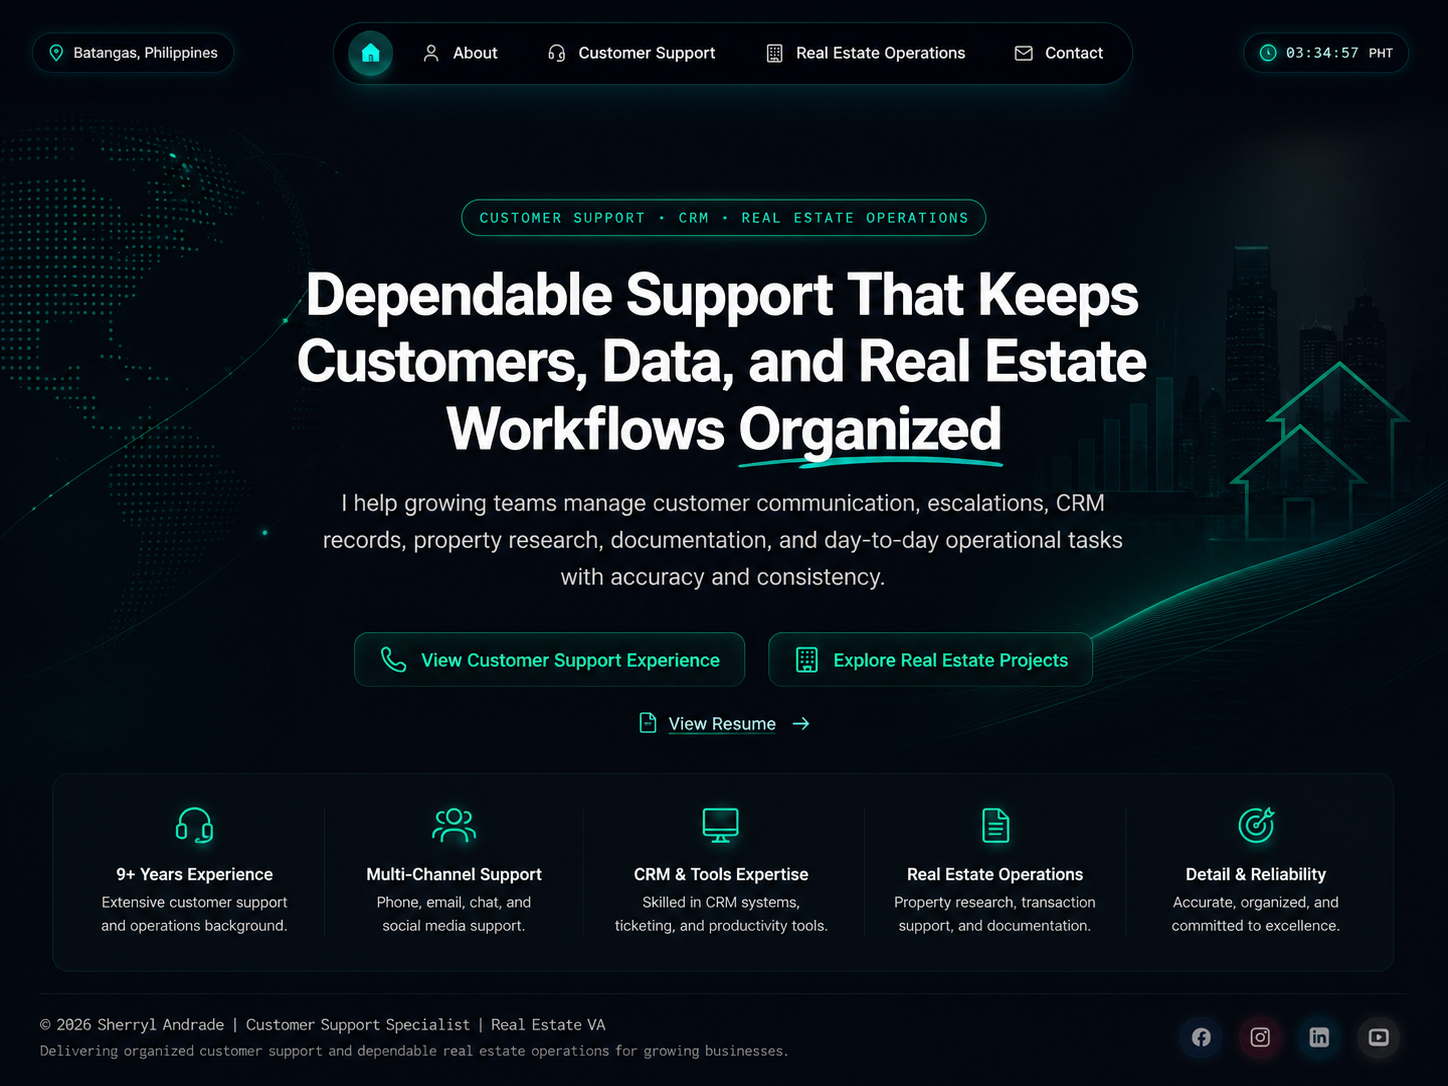
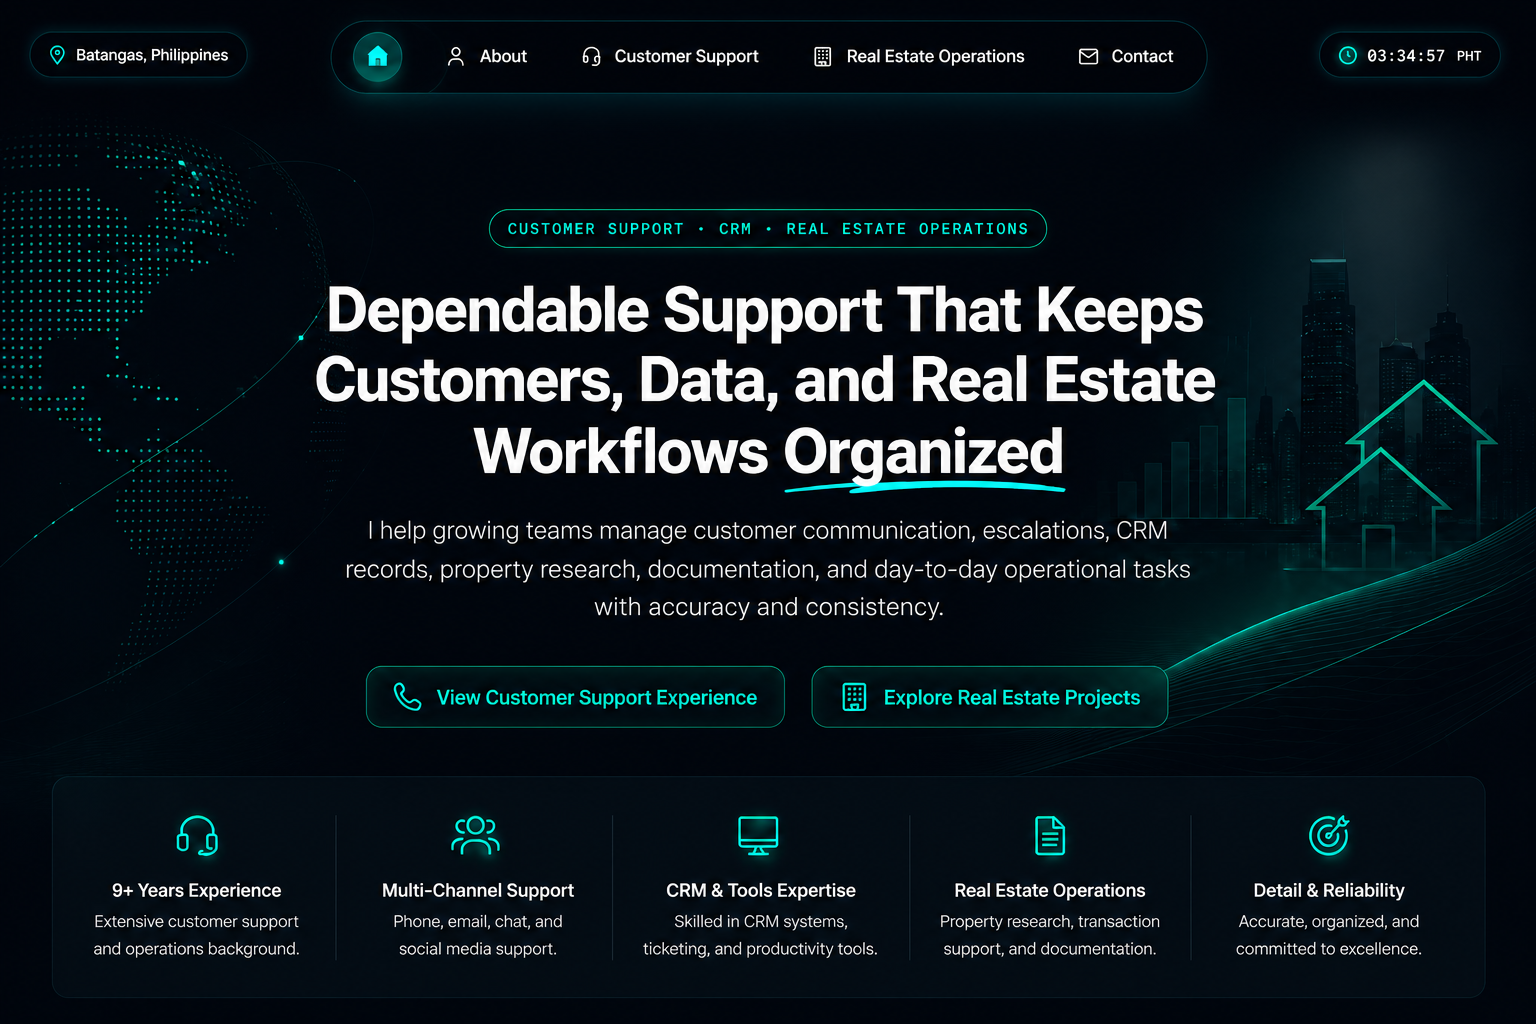
Add files via upload

diff --git a/index.html b/index.html
@@ -100,34 +100,40 @@ body.home-mode > main {
     -webkit-user-drag: none;
 }
 
-.exact-home-hotspot {
+
+.exact-home-hotspot,
+.exact-home-hotspot:hover,
+.exact-home-hotspot:focus,
+.exact-home-hotspot:focus-visible,
+.exact-home-hotspot:active,
+.exact-home-hotspot:visited {
     position: absolute;
     z-index: 50;
-    pointer-events: auto;
     display: block;
-    border: 1px solid transparent;
-    border-radius: 9999px;
-    background: transparent;
-    cursor: pointer;
-    transition: opacity 0.2s ease;
+    pointer-events: auto;
+    margin: 0;
+    padding: 0;
+    border: 0 !important;
+    outline: 0 !important;
+    border-radius: 0;
+    background: transparent !important;
+    box-shadow: none !important;
+    color: transparent !important;
+    text-decoration: none !important;
+    opacity: 1;
+    transform: none !important;
+    transition: none !important;
     -webkit-tap-highlight-color: transparent;
+    appearance: none;
 }
 
-.exact-home-hotspot:hover,
-.exact-home-hotspot:focus-visible {
-    outline: none;
-    background: transparent;
-    border-color: transparent;
-    box-shadow: none;
-    transform: none;
-}
 
 /* Header navigation */
 .exact-home-link-home {
-    left: 20.7%;
-    top: 1.45%;
-    width: 5.8%;
-    height: 7.2%;
+    left: 21.2%;
+    top: 2.0%;
+    width: 4.8%;
+    height: 5.8%;
 }
 
 .exact-home-link-about {
@@ -175,12 +181,6 @@ body.home-mode > main {
     border-radius: 0.9rem;
 }
 
-.exact-home-link-resume {
-    left: 40.2%;
-    top: 67%;
-    width: 11.7%;
-    height: 4.7%;
-}
 
 /* Footer social links */
 .exact-home-link-facebook {
@@ -300,7 +300,7 @@ body.home-mode > main {
            onclick="event.preventDefault(); switchPage('contact')"
            aria-label="Contact"></a>
 
-        <!-- Hero calls to action -->
+        <!-- Hero calls to action: résumé intentionally omitted -->
         <a class="exact-home-hotspot exact-home-link-customer-cta"
            href="#customer-service"
            onclick="event.preventDefault(); switchPage('customer-service')"
